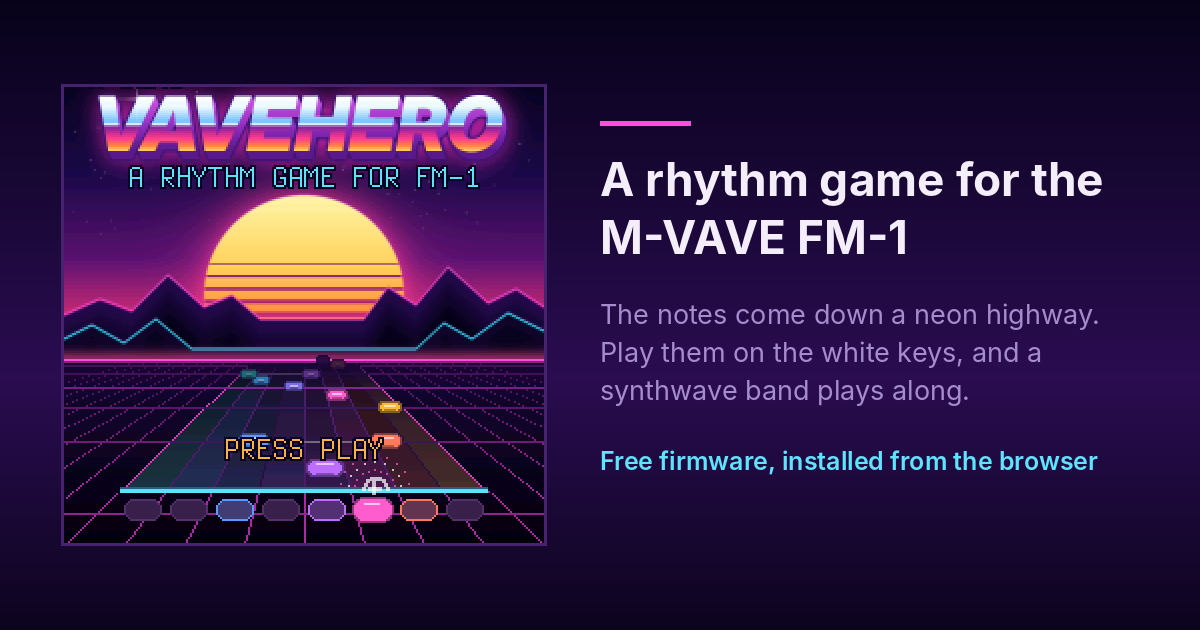
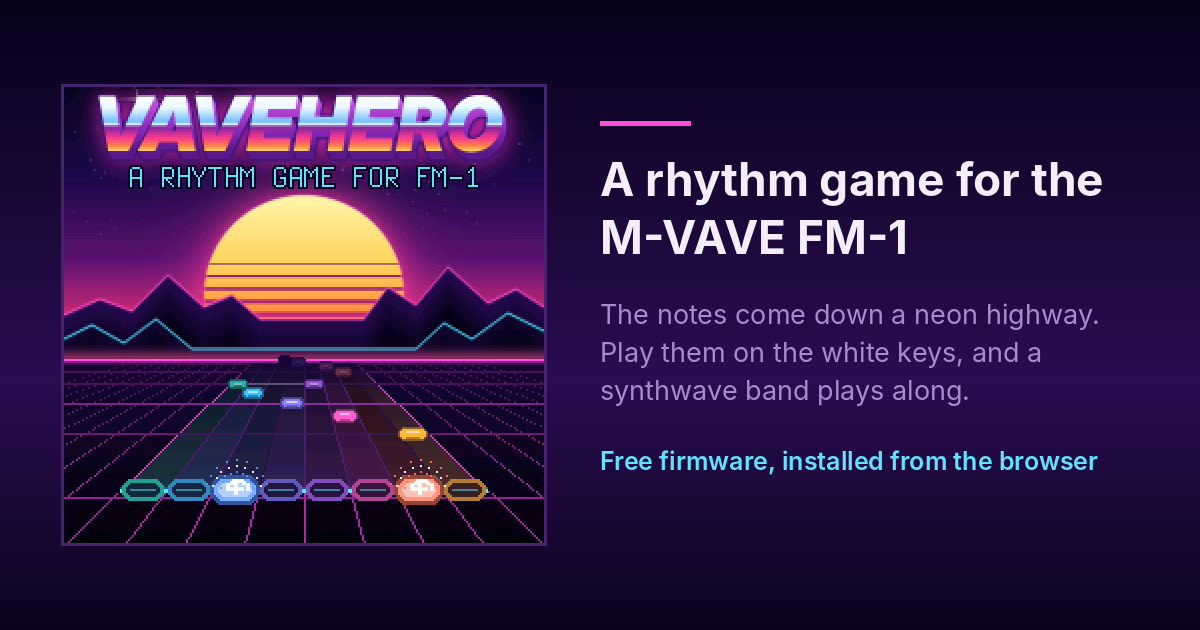
The splash's hit line has the lanes' buttons too (D17)
The splash's road is the game's highway, and its keys under the line lit
up for the notes coming, as the play screen's did. They are gone the same
way: the line has a button for each lane, a ring lit as its note hits it.

- Firmware: ks_pad (the play screen's buttons and the splash's smaller
  ones); ks_cap is gone with the keys.
- Reference (REF 0.1.22): laneBtn for both.
- docs/screens/splash.gif, fw-splash.png and the link preview web/og.png
  made again from the host build.

Claude-Session: https://claude.ai/code/session_01MBzS5f3wjTn3y6UgD7Y6Yo

Changed region(s): [[0.0308, 0.5429, 0.4625, 0.8444]]

diff --git a/reference/vavehero.html b/reference/vavehero.html
@@ -112,7 +112,7 @@
       <p class="muted">“Two windows” links two tabs or windows in the same browser, as if they were two FM-1s. The messages are the same MIDI messages that will go over USB-C (see <code>docs/link.md</code>). With two MIDI keyboards, each window can have its own.</p>
       <div class="status" id="linkStatus"></div>
     </div>
-    <p class="muted">VaveHero reference 0.1.21 · <code>docs/concept.md</code> · <code>docs/link.md</code> · <code>ROADMAP.md</code></p>
+    <p class="muted">VaveHero reference 0.1.22 · <code>docs/concept.md</code> · <code>docs/link.md</code> · <code>ROADMAP.md</code></p>
   </aside>
 </div>
 <script>/* Terminus (ter-u16n), SIL OFL 1.1: assets/fonts/Terminus-LICENSE.txt. Dinghy 0.4 FONT_S and FONT_L, 4 bits a pixel. */
@@ -126,7 +126,7 @@ window.TERMINUS = {"S": {"h": 16, "pad": 2, "first": 32, "last": 126, "adv": [8,
 /* VaveHero, the browser reference. Until the Dinghy port exists, this file is the authority for how VaveHero feels,
    times and sounds. Everything the FM-1 has is here: the 240 x 240 screen in Dinghy's Terminus fonts, the 27 keys
    with their two LED levels, the buttons and knobs, and the LINK protocol for two players. */
-const VERSION = 'REF 0.1.21';
+const VERSION = 'REF 0.1.22';
 
 /* ================================================================ small things */
 const $ = id => document.getElementById(id);
@@ -360,7 +360,7 @@ const LAYOUTS = {                                                     /* lane ->
   spread: [0, 4, 7, 11, 14, 18, 21, 24],                              /* D2: every other white key, F3 A3 C4 E4 G4 B4 D5 F5 */
 };
 const layout = () => G.spread ? LAYOUTS.spread : LAYOUTS.normal;
-function keyCap(ctx, cx, y, w, h, col, state, black) {              /* the FM-1's capsule keys (the splash's too) */
+function keyCap(ctx, cx, y, w, h, col, state, black) {              /* the FM-1's capsule keys (MIDI MODE's strip) */
   const x = cx - w / 2;
   if (state === 'lit') { pcap(ctx, x - 1, y - 1, w + 2, h + 2, mix(P.bg, col, .55)); pcap(ctx, x, y, w, h, col); rect(ctx, x + h / 2, y + 2, w - h, 1, mix(col, '#ffffff', .65)); }
   else if (state === 'next') { pcap(ctx, x, y, w, h, col); pcap(ctx, x + 1, y + 1, w - 2, h - 2, mix(black ? '#261336' : '#39224e', col, .22)); }
@@ -369,16 +369,17 @@ function keyCap(ctx, cx, y, w, h, col, state, black) {              /* the FM-1'
 /* D17: a button for each lane on the hit line, the notes' target: lit only while its key is down. Idle it is a ring in
    the lane's colour with the line through it (gold in OP BOOST, neon in a FREE SOLO) */
 const PAD_W = 27, PAD_H = 14;
-function padRing(ctx, i, line) {
-  const col = LANE[i], x = Math.round(U(i + .5) - PAD_W / 2), y = HIT - 1 - PAD_H / 2, inner = mix('#12061d', col, .16);
-  pcap(ctx, x, y, PAD_W, PAD_H, mix(P.bg, col, .7)); pcap(ctx, x + 2, y + 2, PAD_W - 4, PAD_H - 4, inner);
-  rect(ctx, x + 4, HIT - 1, PAD_W - 8, 1, mix(inner, line, .5));
+function laneBtn(ctx, x, y, w, h, col, lit, line) {                       /* (the splash's are smaller) */
+  if (lit) {                                                           /* whiter than a note: a note in it is not a key down */
+    pcap(ctx, x - 2, y - 2, w + 4, h + 4, mix(P.bg, col, .55)); pcap(ctx, x, y, w, h, mix(col, '#ffffff', .2));
+    pcap(ctx, x + 2, y + 2, w - 4, h - 4, mix(col, '#ffffff', .55)); return;
+  }
+  const inner = mix('#12061d', col, .16);
+  pcap(ctx, x, y, w, h, mix(P.bg, col, .7)); pcap(ctx, x + 2, y + 2, w - 4, h - 4, inner);
+  rect(ctx, x + 4, y + (h >> 1), w - 8, 1, mix(inner, line, .5));
 }
-function padLit(ctx, i) {
-  const col = LANE[i], x = Math.round(U(i + .5) - PAD_W / 2), y = HIT - 1 - PAD_H / 2;
-  pcap(ctx, x - 2, y - 2, PAD_W + 4, PAD_H + 4, mix(P.bg, col, .55)); pcap(ctx, x, y, PAD_W, PAD_H, mix(col, '#ffffff', .2));
-  pcap(ctx, x + 2, y + 2, PAD_W - 4, PAD_H - 4, mix(col, '#ffffff', .55));            /* (whiter than a note: a note in it is not a key down) */
-}
+const padRing = (ctx, i, line) => laneBtn(ctx, Math.round(U(i + .5) - PAD_W / 2), HIT - 1 - PAD_H / 2, PAD_W, PAD_H, LANE[i], false, line);
+const padLit = (ctx, i) => laneBtn(ctx, Math.round(U(i + .5) - PAD_W / 2), HIT - 1 - PAD_H / 2, PAD_W, PAD_H, LANE[i], true);
 function keyStrip(ctx, st, led = []) {
   if (G.spread) return spreadStrip(ctx, st, led);
   const cap = (cx, y, w, h, col, state, black) => keyCap(ctx, cx, y, w, h, col, state, black);
@@ -1532,6 +1533,9 @@ function drawSplash(ctx, now) {
     rect(ctx, 0, y, xl, 1, gcol); rect(ctx, xr, y, 240 - xr, 1, gcol);
   }
   rect(ctx, 0, SP.HZN, 240, 1, NEON); rect(ctx, 0, SP.HZN + 1, 240, 1, H(kmixI(0x1a0638, 0xff4fd8, Q12(.45))));   /* the horizon */
+  rect(ctx, SP.NL, SP.HIT - 2, 8 * SP.LW, 1, mix(P.bg, P.cyan, .4));  /* the hit line and its buttons, as the play screen's (D17) */
+  rect(ctx, SP.NL, SP.HIT - 1, 8 * SP.LW, 2, P.cyan);
+  for (let i = 0; i < 8; i++) laneBtn(ctx, 29 + SP.LW * i, SP.HIT - 6, 21, 11, LANE[i], false, P.cyan);
   for (let k = 1; k >= 0; k--) SP_NOTES.forEach(([hb, lane], i) => {   /* the notes: this loop's and the next's, chords barred */
     const tq = hb * 2048 + k * 8 * 4096 - beat, z = idiv(tq * 3, 2);
     if (tq <= 0 || z > SP.ZTOP) return;
@@ -1546,17 +1550,13 @@ function drawSplash(ctx, now) {
     pcap(ctx, x0, y0, w, h, H(kmixI(fl, col, f)));
     rect(ctx, x0 + r, y0 + 1, iw, 1, H(kmixI(fl, kmixI(col, 0xffffff, Q12(.6)), f)));
     rect(ctx, x0 + r, y0 + h - 1, iw, 1, H(kmixI(fl, kmixI(col, 0x000000, Q12(.3)), f)));
-    if (tq <= 4096 && !st[lane]) st[lane] = 1;
   });
-  rect(ctx, SP.NL, SP.HIT - 2, 8 * SP.LW, 1, mix(P.bg, P.cyan, .4));  /* the hit line */
-  rect(ctx, SP.NL, SP.HIT - 1, 8 * SP.LW, 2, P.cyan);
-  for (let k = 0; k >= -1; k--) SP_NOTES.forEach(([hb, lane]) => {     /* the notes hitting it: a burst, the key lit */
+  for (let k = 0; k >= -1; k--) SP_NOTES.forEach(([hb, lane]) => {     /* the notes hitting it: the button lit, a burst */
     const tq = hb * 2048 + k * 8 * 4096 - beat, age = idiv(-tq * SP.BEAT, 4096);
     if (tq > 0 || age >= 260) return;
+    if (age < 150 && !st[lane]) { st[lane] = 1; laneBtn(ctx, 29 + SP.LW * lane, SP.HIT - 6, 21, 11, LANE[lane], true); }
     burstDraw(ctx, SP.NL + SP.LW * lane + 12, SP.HIT - 1, LANE[lane], age / 260, true);
-    if (age < 150) st[lane] = 2;
   });
-  for (let i = 0; i < 8; i++) keyCap(ctx, 39 + SP.LW * i, 218, 19, 11, LANE[i], st[i] === 2 ? 'lit' : st[i] === 1 ? 'next' : null, false);
   textOut(ctx, 'S', 120 - (tw('S', 'A RHYTHM GAME FOR FM-1') >> 1), 50, 'A RHYTHM GAME FOR FM-1', P.cyan, OUT);
   if (Math.floor(ms / 500) % 2 === 0) textOut(ctx, 'S', 120 - (tw('S', 'PRESS PLAY') >> 1), 186, 'PRESS PLAY', P.amber, OUT);
   textOut(ctx, 'S', 4, 0, 'FX DEMO', P.dim, OUT);

diff --git a/firmware/src/kf_screens.h b/firmware/src/kf_screens.h
@@ -232,34 +232,26 @@ static void ks_burst(int32_t cx, int32_t cy, rgb_t col, int32_t age, int32_t big
     }
     if (age < 2048) { krect_a(cx - 3, cy - 1, 7, 2, K_WHITE, al); krect_a(cx - 1, cy - 4, 2, 7, K_WHITE, al); }
 }
-/* the FM-1's keys: two rows of capsules (D1: the black row is shown and never used), or SPREAD's 15 (D2) */
-static void ks_cap(int32_t cx, int32_t y, int32_t w, int32_t h, rgb_t col, int32_t state, int32_t black)   /* state: 0, 1 next, 2 lit */
-{
-    int32_t x = cx - w / 2;
-    if (state == 2) { kpcap(x - 1, y - 1, w + 2, h + 2, kmix(K_BG, col, Q12(.55))); kpcap(x, y, w, h, col); krect(x + h / 2, y + 2, w - h, 1, kmix(col, K_WHITE, Q12(.65))); }
-    else if (state == 1) { kpcap(x, y, w, h, col); kpcap(x + 1, y + 1, w - 2, h - 2, kmix(black ? 0x261336u : 0x39224eu, col, Q12(.22))); }
-    else { kpcap(x, y, w, h, black ? 0x532878u : 0x52316fu); kpcap(x + 1, y + 1, w - 2, h - 2, black ? 0x251137u : 0x39224eu); }
-}
 /* D17: a button for each lane on the hit line, the notes' target: lit only while its key is down. Idle a ring in the
  * lane's colour with the line through it (gold in OP BOOST, neon in a FREE SOLO); lit, whiter than a note */
 #define KS_PAD_W 27
 #define KS_PAD_H 14
-static void ks_pad_ring(int32_t i, rgb_t line)
+static void ks_pad(int32_t x, int32_t y, int32_t w, int32_t h, rgb_t col, int32_t lit, rgb_t line)   /* (the splash's are smaller) */
 {
-    int32_t x = 5 + KH_LW * i, y = KH_HIT - 1 - KS_PAD_H / 2;   /* round(U(i + .5) - 27 / 2) */
-    rgb_t col = LANE[i], inner = kmix(0x12061du, col, Q12(.16));
-    kpcap(x, y, KS_PAD_W, KS_PAD_H, kmix(K_BG, col, Q12(.7)));
-    kpcap(x + 2, y + 2, KS_PAD_W - 4, KS_PAD_H - 4, inner);
-    krect(x + 4, KH_HIT - 1, KS_PAD_W - 8, 1, kmix(inner, line, Q12(.5)));
+    rgb_t inner;
+    if (lit) {
+        kpcap(x - 2, y - 2, w + 4, h + 4, kmix(K_BG, col, Q12(.55)));
+        kpcap(x, y, w, h, kmix(col, K_WHITE, Q12(.2)));
+        kpcap(x + 2, y + 2, w - 4, h - 4, kmix(col, K_WHITE, Q12(.55)));
+        return;
+    }
+    inner = kmix(0x12061du, col, Q12(.16));
+    kpcap(x, y, w, h, kmix(K_BG, col, Q12(.7)));
+    kpcap(x + 2, y + 2, w - 4, h - 4, inner);
+    krect(x + 4, y + (h >> 1), w - 8, 1, kmix(inner, line, Q12(.5)));
 }
-static void ks_pad_lit(int32_t i)
-{
-    int32_t x = 5 + KH_LW * i, y = KH_HIT - 1 - KS_PAD_H / 2;
-    rgb_t col = LANE[i];
-    kpcap(x - 2, y - 2, KS_PAD_W + 4, KS_PAD_H + 4, kmix(K_BG, col, Q12(.55)));
-    kpcap(x, y, KS_PAD_W, KS_PAD_H, kmix(col, K_WHITE, Q12(.2)));
-    kpcap(x + 2, y + 2, KS_PAD_W - 4, KS_PAD_H - 4, kmix(col, K_WHITE, Q12(.55)));
-}
+static void ks_pad_ring(int32_t i, rgb_t line) { ks_pad(5 + KH_LW * i, KH_HIT - 1 - KS_PAD_H / 2, KS_PAD_W, KS_PAD_H, LANE[i], 0, line); }   /* (x: round(U(i + .5) - 27 / 2)) */
+static void ks_pad_lit(int32_t i) { ks_pad(5 + KH_LW * i, KH_HIT - 1 - KS_PAD_H / 2, KS_PAD_W, KS_PAD_H, LANE[i], 1, 0); }
 
 /* ---- the screens */
 /* the splash, as an 80s video game cover: the art above the horizon (tools/gen_splash.py: the sky, the stars, the
@@ -328,6 +320,9 @@ static void ks_splash(uint32_t ms, const char *version)
     }
     krect(0, KS_HZN, 240, 1, K_NEON);            /* the horizon */
     krect(0, KS_HZN + 1, 240, 1, kmix(K_FLOOR0, K_NEON, Q12(.45)));
+    krect(KS_NL, KS_HIT - 2, 8 * KS_LW, 1, kmix(K_BG, K_CYAN, Q12(.4)));   /* the hit line and its buttons, as the play screen's (D17) */
+    krect(KS_NL, KS_HIT - 1, 8 * KS_LW, 2, K_CYAN);
+    for (i = 0; i < 8; i++) ks_pad(29 + KS_LW * i, KS_HIT - 6, 21, 11, LANE[i], 0, K_CYAN);
     for (k = 1; k >= 0; k--)                     /* the notes: this loop's and the next's, chords barred */
         for (i = 0; i < 16; i++) {
             int32_t tq = KS_NOTES[i][0] * 2048 + k * 8 * 4096 - beat, z = tq * 3 / 2, sc, yq, yr, w, h, lane = KS_NOTES[i][1];
@@ -342,18 +337,14 @@ static void ks_splash(uint32_t ms, const char *version)
             if (h < 3) h = 3;
             ks_gem_px(kh_round(ks_xu(lane * 16 + 8, sc) - w * 2048), kh_round(yq - h * 2048), w, h, LANE[lane], LANE[lane],
                       Q12(.5), ks_fl(yr), ks_f(yr));
-            if (tq <= 4096 && !st[lane]) st[lane] = 1;
         }
-    krect(KS_NL, KS_HIT - 2, 8 * KS_LW, 1, kmix(K_BG, K_CYAN, Q12(.4)));   /* the hit line */
-    krect(KS_NL, KS_HIT - 1, 8 * KS_LW, 2, K_CYAN);
-    for (k = 0; k >= -1; k--)                    /* the notes hitting it: a burst, the key lit */
+    for (k = 0; k >= -1; k--)                    /* the notes hitting it: the button lit, a burst */
         for (i = 0; i < 16; i++) {
             int32_t tq = KS_NOTES[i][0] * 2048 + k * 8 * 4096 - beat, age = -tq * KS_BEAT / 4096, lane = KS_NOTES[i][1];
             if (tq > 0 || age >= 260) continue;
+            if (age < 150 && !st[lane]) { st[lane] = 1; ks_pad(29 + KS_LW * lane, KS_HIT - 6, 21, 11, LANE[lane], 1, 0); }
             ks_burst(KS_NL + KS_LW * lane + 12, KS_HIT - 1, LANE[lane], age * 4096 / 260, 1);
-            if (age < 150) st[lane] = 2;
         }
-    for (i = 0; i < 8; i++) ks_cap(39 + KS_LW * i, 218, 19, 11, LANE[i], st[i], 0);
     ktextOut(&FONT_S, 120 - (ktw(&FONT_S, "A RHYTHM GAME FOR FM-1") >> 1), 50, "A RHYTHM GAME FOR FM-1", K_CYAN, K_OUT, 1);
     if ((ms / 500u) % 2u == 0u) ktextOut(&FONT_S, 120 - (ktw(&FONT_S, "PRESS PLAY") >> 1), 186, "PRESS PLAY", K_AMBER, K_OUT, 1);
     ktextOut(&FONT_S, 4, 0, "FX DEMO", K_DIM, K_OUT, 1);

diff --git a/docs/DECISIONS.md b/docs/DECISIONS.md
@@ -423,7 +423,8 @@ notes' target: a ring in the lane's colour with the line through it (the line is
 SOLO, as before). A button lights only while its key is down, whiter than a note, so a note in its button is not
 taken for a key. A note in its button is the moment to press. What comes next is shown on the FM-1's key LEDs only,
 as before. Without the keys' rows the hit line is 22 px lower (y 212), and the highway that much longer. MIDI MODE's
-own screen keeps its keys, since it shows what the DAW plays.
+own screen keeps its keys, since it shows what the DAW plays. The splash's highway has the same buttons on its line,
+lit as its notes hit them (`docs/screens/splash.gif`, the link preview `web/og.png`).
 
 **Why.** The keys under the highway lit up for the notes coming. That drew the eye away from the highway, and the
 LEDs on the keyboard already do it. A target on the line itself also shows when to press: when the note is in the

diff --git a/reference/README.md b/reference/README.md
@@ -6,7 +6,7 @@ as in RoboSeq and SkurkyMello.
 
 | File | Version | SHA-256 |
 |---|---|---|
[2 lines of base64/hex data omitted]
 
 A new HTML is a new reference and gets its own commit with a new SHA-256 here.
 
